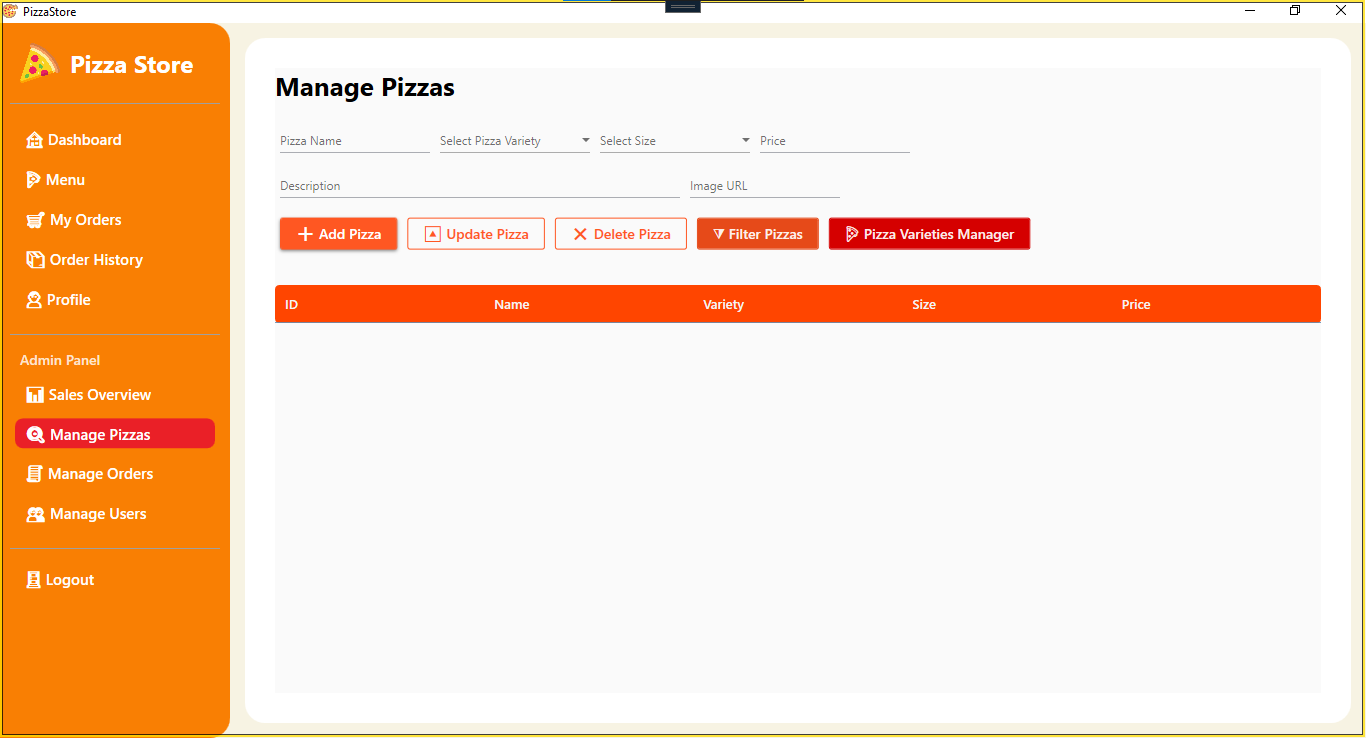
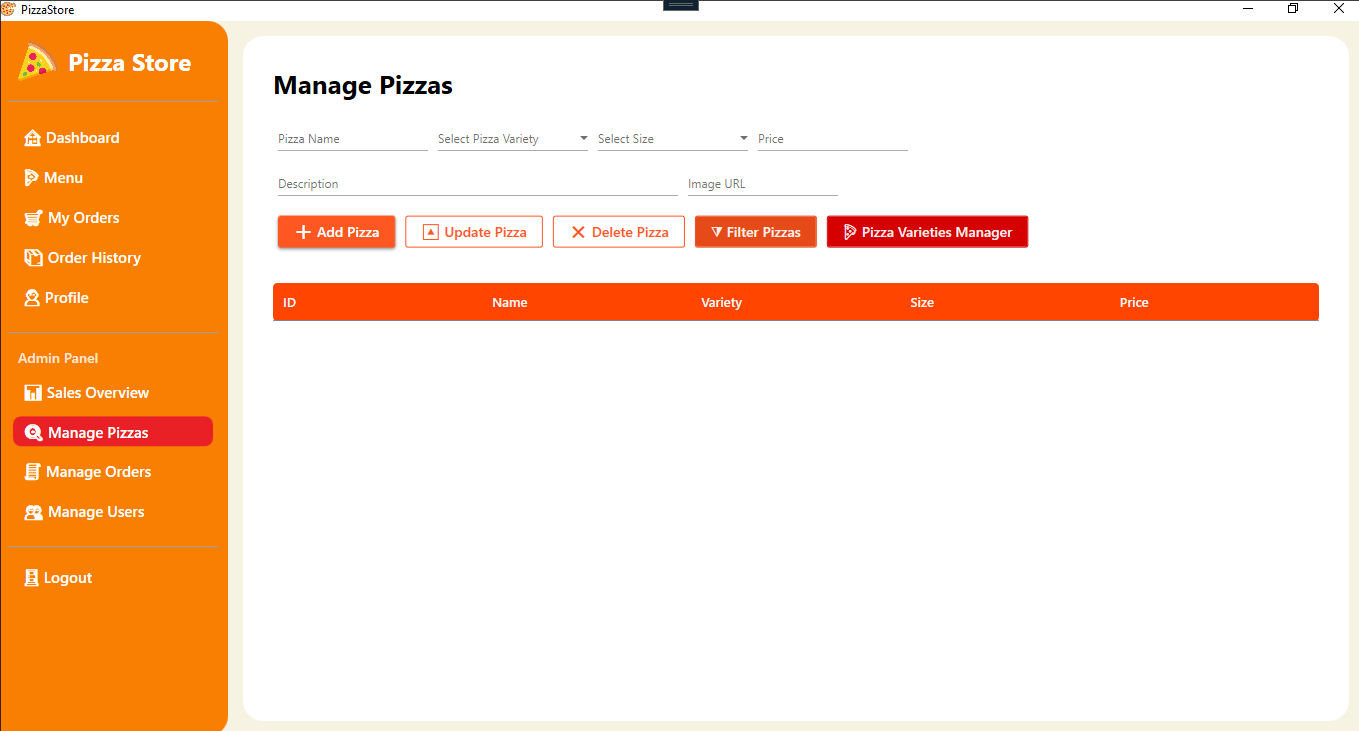
Finally fixed the background color theme of the section view

diff --git a/PizzaStore/PizzaStore.Presentation/Views/ManagePizzas/ManagePizzasView.xaml b/PizzaStore/PizzaStore.Presentation/Views/ManagePizzas/ManagePizzasView.xaml
@@ -8,7 +8,7 @@
              d:DesignHeight="600"
              d:DesignWidth="900">
 
-    <Grid Background="#FFF7F3E3" Margin="20">
+    <Grid Background="White" Margin="20">
         <Grid.RowDefinitions>
             <RowDefinition Height="Auto"/>
             <RowDefinition Height="*"/>
